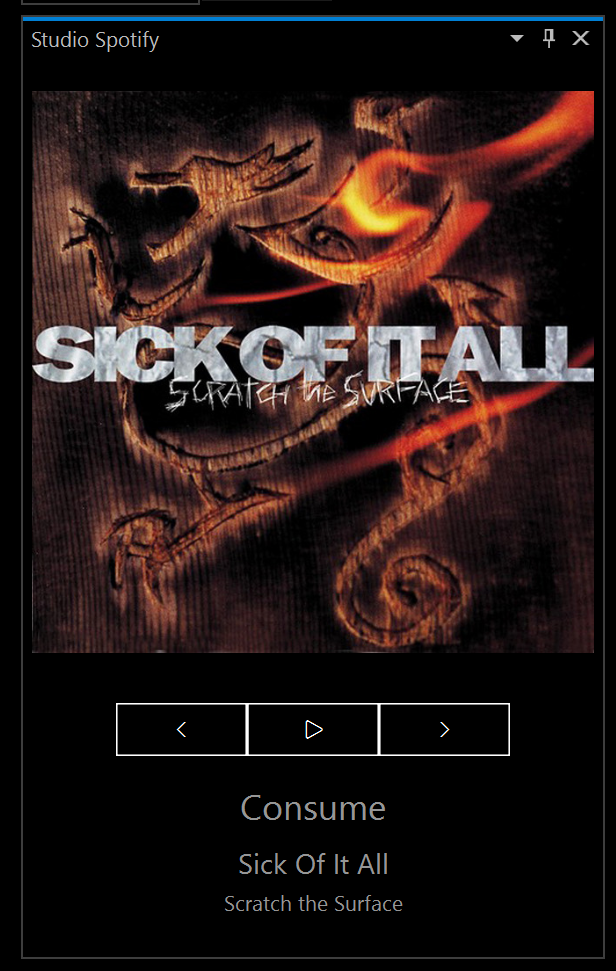
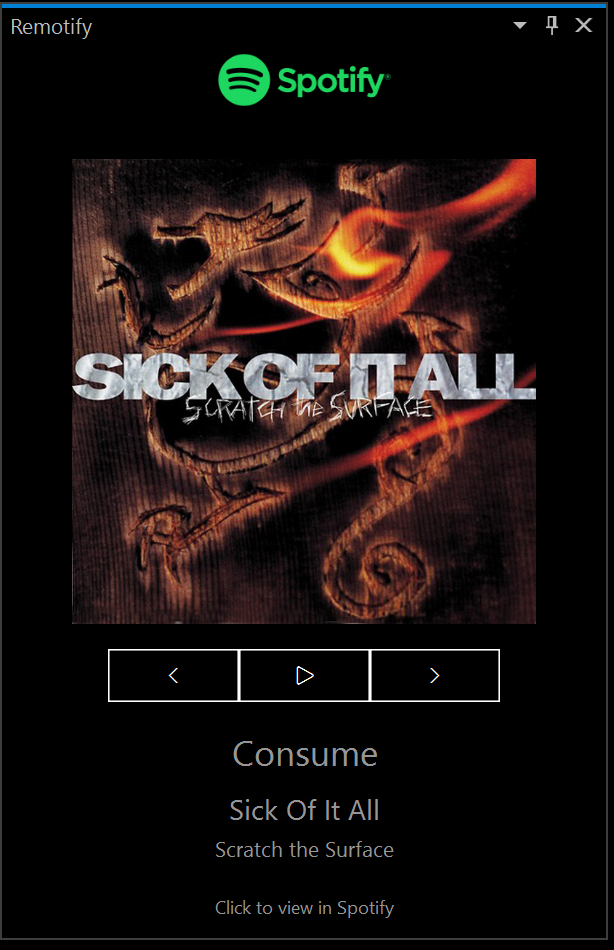
Rebranding for Spotify compliance Renaming of project and such will be done after approval

diff --git a/StudioSpotify/ToolWindows/StudioSpotifyToolWindowControl.xaml b/StudioSpotify/ToolWindows/StudioSpotifyToolWindowControl.xaml
@@ -1,4 +1,4 @@
-<UserControl x:Class="StudioSpotify.StudioSpotifyToolWindowControl"
+<UserControl x:Class="Remotify.StudioSpotifyToolWindowControl"
              xmlns="http://schemas.microsoft.com/winfx/2006/xaml/presentation"
              xmlns:x="http://schemas.microsoft.com/winfx/2006/xaml"
              xmlns:mc="http://schemas.openxmlformats.org/markup-compatibility/2006"
@@ -15,7 +15,7 @@
              Name="MyToolWindow">
     <UserControl.Resources>
         <Style x:Key="Fluent">
-            <Setter Property="TextBlock.FontFamily" Value="pack://application:,,,/StudioSpotify;component/Resources/SegoeFluentIcons.ttf#Segoe Fluent Icons" />
+            <Setter Property="TextBlock.FontFamily" Value="pack://application:,,,/Remotify;component/Resources/SegoeFluentIcons.ttf#Segoe Fluent Icons" />
         </Style>
     </UserControl.Resources>
     <Grid>
@@ -30,17 +30,26 @@
                     VerticalAlignment="Stretch" />
         <Grid x:Name="NowPlaying" Visibility="Visible" HorizontalAlignment="Stretch" VerticalAlignment="Stretch" Margin="5">
             <Grid.RowDefinitions>
+                <RowDefinition Height="60" />
                 <RowDefinition Height="*" />
                 <RowDefinition Height="60"/>
                 <RowDefinition Height="35"/>
                 <RowDefinition Height="25"/>
                 <RowDefinition Height="35"/>
+                <RowDefinition Height="20"/>
             </Grid.RowDefinitions>
             <Grid.ColumnDefinitions>
                 <ColumnDefinition Width="*"/>
             </Grid.ColumnDefinitions>
-            <Image Stretch="Uniform" x:Name="AlbumImage" Grid.Row="0" HorizontalAlignment="Stretch" VerticalAlignment="Stretch" MinHeight="60" MinWidth="60" />
-            <StackPanel Grid.Row="1" Orientation="Horizontal" HorizontalAlignment="Center">
+            <Image Stretch="Uniform" x:Name="SpotifyLogo" Grid.Row="0" HorizontalAlignment="Center" VerticalAlignment="Top" MaxHeight="30" MinWidth="60" />
+            <Image Stretch="Uniform" x:Name="AlbumImage" Grid.Row="1"
+                   MouseDown="AlbumImage_MouseDown"
+                   HorizontalAlignment="Stretch" VerticalAlignment="Stretch" MinHeight="60" MinWidth="60" >
+                <Image.ToolTip>
+                    <ToolTip Content="Click to view in Spotify"></ToolTip>
+                </Image.ToolTip>
+            </Image>
+            <StackPanel Grid.Row="2" Orientation="Horizontal" HorizontalAlignment="Center">
                 <Button Background="Black" BorderThickness="1" BorderBrush="White"  Height="30" Width="40" x:Name="Previous" Click="Previous_Click" >
                     <TextBlock Style="{StaticResource Fluent}" Text="&#xe76b;"></TextBlock>
                 </Button>
@@ -51,9 +60,10 @@
                     <TextBlock Style="{StaticResource Fluent}" Text="&#xe76c;"></TextBlock>
                 </Button>
             </StackPanel>
-            <TextBlock x:Name="Track" FontSize="20" Grid.Row="2" HorizontalAlignment="Center" TextWrapping="NoWrap" TextTrimming="CharacterEllipsis" />
-            <TextBlock x:Name="Artist" FontSize="16" Grid.Row="3"  HorizontalAlignment="Center" TextWrapping="NoWrap" TextTrimming="CharacterEllipsis" />
-            <TextBlock x:Name="Album" FontSize="12" Grid.Row="4"  HorizontalAlignment="Center" TextWrapping="NoWrap"  TextTrimming="CharacterEllipsis"/>
+            <TextBlock x:Name="Track" FontSize="20" Grid.Row="3" HorizontalAlignment="Center" TextWrapping="NoWrap" TextTrimming="CharacterEllipsis" />
+            <TextBlock x:Name="Artist" FontSize="16" Grid.Row="4"  HorizontalAlignment="Center" TextWrapping="NoWrap" TextTrimming="CharacterEllipsis" />
+            <TextBlock x:Name="Album" FontSize="12" Grid.Row="5"  HorizontalAlignment="Center" TextWrapping="NoWrap"  TextTrimming="CharacterEllipsis"/>
+            <TextBlock x:Name="OpenSpotify" FontSize="10" Grid.Row="6" Text="Click to view in Spotify" MouseDown="AlbumImage_MouseDown"  HorizontalAlignment="Center" TextWrapping="NoWrap"  TextTrimming="CharacterEllipsis"/>
         </Grid>
     </Grid>
 </UserControl>

diff --git a/StudioSpotify/ToolWindows/StudioSpotifyToolWindowControl.xaml.cs b/StudioSpotify/ToolWindows/StudioSpotifyToolWindowControl.xaml.cs
@@ -1,7 +1,7 @@
 using Microsoft.VisualStudio.Shell.Interop;
 using Newtonsoft.Json;
+using Remotify.Model;
 using SpotifyAPI.Web;
-using StudioSpotify.Model;
 using System.IO;
 using System.Linq;
 using System.Net.Http;
@@ -12,7 +12,7 @@ using System.Windows.Controls;
 using System.Windows.Media.Imaging;
 using System.Windows.Navigation;
 
-namespace StudioSpotify
+namespace Remotify
 {
     public partial class StudioSpotifyToolWindowControl : UserControl
     {
@@ -26,6 +26,7 @@ namespace StudioSpotify
         private string _placeHolder;
         private Guid _paneGuid = Guid.NewGuid();
         private IVsOutputWindow _outputWindow;
+        private string _currentTrackUrl = string.Empty;
 
         public StudioSpotifyToolWindowControl()
         {
@@ -50,6 +51,8 @@ namespace StudioSpotify
             dir = Path.GetDirectoryName(typeof(StudioSpotifyPackage).Assembly.Location);
             _placeHolder = Path.Combine(dir, "Resources", "logo.png");
             AlbumImage.Source = new BitmapImage(new Uri(_placeHolder));
+            var spotifyLogo = Path.Combine(dir, "Resources", "SpotifyLogo.png");
+            SpotifyLogo.Source = new BitmapImage(new Uri(spotifyLogo));
             base.OnInitialized(e);
         }
 
@@ -86,14 +89,11 @@ namespace StudioSpotify
                 var loginRequest = new LoginRequest(new Uri("http://localhost:5000"), _settings?.ClientId ?? "", LoginRequest.ResponseType.Code)
                 {
                     Scope = new[] { Scopes.PlaylistReadPrivate,
-                 Scopes.PlaylistReadCollaborative,
-                 Scopes.UserReadPrivate,
-                 Scopes.UserReadEmail,
                  Scopes.Streaming,
                  Scopes.UserModifyPlaybackState,
                  Scopes.AppRemoteControl,
-                 Scopes.PlaylistModifyPublic,
                  Scopes.UserReadPlaybackState,
+                 Scopes.UserReadCurrentlyPlaying,
                  Scopes.UserReadPlaybackPosition }
                 };
                 WebBrowser.Navigate(loginRequest.ToUri());
@@ -111,9 +111,10 @@ namespace StudioSpotify
                 var result = await _spotifyClient!.Player!.GetCurrentlyPlaying(new PlayerCurrentlyPlayingRequest());
                 if (result == null)
                 {
-                    Artist.Text = "";
-                    Album.Text = "";
+                    Artist.Text = string.Empty;
+                    Album.Text = string.Empty;
                     Track.Text = "No player active";
+                    _currentTrackUrl = string.Empty;
                     AlbumImage.Source = new BitmapImage(new Uri(_placeHolder));
                 }
                 else if (result?.Item?.Type == ItemType.Track)
@@ -122,6 +123,7 @@ namespace StudioSpotify
                     Artist.Text = track!.Artists.ToList().Count() > 1 ? track.Artists.Select(_ => _.Name).Aggregate((a, b) => $"{a}, {b}") : track.Artists[0].Name;
                     Track.Text = track.Name;
                     Album.Text = track.Album.Name;
+                    _currentTrackUrl = $"https://open.spotify.com/track/{track.Id}";
                     AlbumImage.Source = new BitmapImage(new Uri(track.Album.Images.FirstOrDefault()?.Url ?? ""));
                 }
                 else if (result?.Item?.Type == ItemType.Episode)
@@ -130,6 +132,7 @@ namespace StudioSpotify
                     Artist.Text = episode?.Show?.Name;
                     Track.Text = episode?.Name;
                     Album.Text = episode?.Show?.Description;
+                    _currentTrackUrl = $"https://open.spotify.com/episode/{episode.Id}";
                     AlbumImage.Source = new BitmapImage(new Uri(episode?.Show?.Images?.FirstOrDefault()?.Url ?? ""));
                 }
             }
@@ -137,8 +140,16 @@ namespace StudioSpotify
             {
                 _timer.Stop();
                 Track.Text = "In preview mode and invite only.";
-                Artist.Text = e.Response?.Body?.ToString() ?? "";
                 Album.Text = "The extension is awaiting Spotify approval.";
+                await ThreadHelper.JoinableTaskFactory.SwitchToMainThreadAsync();
+                if (_outputWindow == null)
+                {
+                    _outputWindow = (IVsOutputWindow)Package.GetGlobalService(typeof(SVsOutputWindow));
+                    _outputWindow.CreatePane(ref _paneGuid, "Remotify", 1, 1);
+                }
+                _outputWindow.GetPane(ref _paneGuid, out var outputPane);
+                outputPane.Activate();
+                outputPane.OutputString(e.ToString());
             }
             catch (Exception e)
             {
@@ -151,7 +162,7 @@ namespace StudioSpotify
                 if (_outputWindow == null)
                 {
                     _outputWindow = (IVsOutputWindow)Package.GetGlobalService(typeof(SVsOutputWindow));
-                    _outputWindow.CreatePane(ref _paneGuid, "Studio Spotify", 1, 1);
+                    _outputWindow.CreatePane(ref _paneGuid, "Remotify", 1, 1);
                 }
                 _outputWindow.GetPane(ref _paneGuid, out var outputPane);
                 outputPane.Activate();
@@ -202,7 +213,7 @@ namespace StudioSpotify
                 if (_outputWindow == null)
                 {
                     _outputWindow = (IVsOutputWindow)Package.GetGlobalService(typeof(SVsOutputWindow));
-                    _outputWindow.CreatePane(ref _paneGuid, "Studio Spotify", 1, 1);
+                    _outputWindow.CreatePane(ref _paneGuid, "Remotify", 1, 1);
                 }
                 _outputWindow.GetPane(ref _paneGuid, out var outputPane);
                 outputPane.Activate();
@@ -256,7 +267,7 @@ namespace StudioSpotify
                 if (_outputWindow == null)
                 {
                     _outputWindow = (IVsOutputWindow)Package.GetGlobalService(typeof(SVsOutputWindow));
-                    _outputWindow.CreatePane(ref _paneGuid, "Studio Spotify", 1, 1);
+                    _outputWindow.CreatePane(ref _paneGuid, "Remotify", 1, 1);
                 }
                 _outputWindow.GetPane(ref _paneGuid, out var outputPane);
                 outputPane.Activate();
@@ -352,6 +363,20 @@ namespace StudioSpotify
             if (!success)
             {
                 _ = "";
+            }
+        }
+
+        private void AlbumImage_MouseDown(object sender, System.Windows.Input.MouseButtonEventArgs e)
+        {
+            if (!string.IsNullOrWhiteSpace(_currentTrackUrl))
+            {
+                try
+                {
+                    System.Diagnostics.Process.Start(_currentTrackUrl);
+                }
+                catch (Exception)
+                {
+                }
             }
         }
     }

diff --git a/StudioSpotify/source.extension.cs b/StudioSpotify/source.extension.cs
@@ -1,17 +1,18 @@
 // ------------------------------------------------------------------------------
 // <auto-generated>
 //     This file was generated by VSIX Synchronizer
+//     Available from https://marketplace.visualstudio.com/items?itemName=MadsKristensen.VsixSynchronizer64
 // </auto-generated>
 // ------------------------------------------------------------------------------
-namespace StudioSpotify
+namespace Remotify
 {
     internal sealed partial class Vsix
     {
-        public const string Id = "d83e0b89-3864-4036-98f5-8dc5cdb58c59";
-        public const string Name = "Studio Spotify";
+        public const string Id = "ADF07379-FA2A-4442-92DC-21190FB583CF";
+        public const string Name = "Remotify";
         public const string Description = @"Lets you control Spotify from right inside Visual Studio";
         public const string Language = "en-US";
-        public const string Version = "0.7";
+        public const string Version = "0.9";
         public const string Author = "BDSoftware";
         public const string Tags = "";
     }

diff --git a/StudioSpotify/Command.cs b/StudioSpotify/Command.cs
@@ -1,10 +1,10 @@
 using Microsoft.VisualStudio.Shell.Interop;
 using Newtonsoft.Json;
-using StudioSpotify.Model;
+using Remotify.Model;
 using System.ComponentModel.Design;
 using System.IO;
 
-namespace StudioSpotify
+namespace Remotify
 {
     /// <summary>
     /// Command handler
@@ -54,7 +54,7 @@ namespace StudioSpotify
         /// <summary>
         /// Gets the service provider from the owner package.
         /// </summary>
-        private Microsoft.VisualStudio.Shell.IAsyncServiceProvider ServiceProvider
+        private IAsyncServiceProvider ServiceProvider
         {
             get
             {
@@ -95,7 +95,7 @@ namespace StudioSpotify
             options.HasRevokedAccess = true;
             await options.SaveAsync();
             File.WriteAllText(json, JsonConvert.SerializeObject(settings));
-            var title = "Studio Spotify";
+            var title = "Remotify";
 
             // Show a message box to prove we were here
             VsShellUtilities.ShowMessageBox(

diff --git a/StudioSpotify/VSCommandTable.cs b/StudioSpotify/VSCommandTable.cs
@@ -1,12 +1,13 @@
 // ------------------------------------------------------------------------------
 // <auto-generated>
 //     This file was generated by VSIX Synchronizer
+//     Available from https://marketplace.visualstudio.com/items?itemName=MadsKristensen.VsixSynchronizer64
 // </auto-generated>
 // ------------------------------------------------------------------------------
-namespace StudioSpotify
+namespace Remotify
 {
     using System;
-    
+
     /// <summary>
     /// Helper class that exposes all GUIDs used across VS Package.
     /// </summary>
@@ -21,6 +22,7 @@ namespace StudioSpotify
         public const string guidImagesString = "3be6a221-51ca-46a5-b524-b9707950b5c1";
         public static Guid guidImages = new Guid(guidImagesString);
     }
+
     /// <summary>
     /// Helper class that encapsulates all CommandIDs uses across VS Package.
     /// </summary>

diff --git a/StudioSpotify/ToolWindows/StudioSpotifyToolWindow.cs b/StudioSpotify/ToolWindows/StudioSpotifyToolWindow.cs
@@ -4,11 +4,11 @@ using System.Threading;
 using System.Threading.Tasks;
 using System.Windows;
 
-namespace StudioSpotify
+namespace Remotify
 {
     public class StudioSpotifyToolWindow : BaseToolWindow<StudioSpotifyToolWindow>
     {
-        public override string GetTitle(int toolWindowId) => "Studio Spotify";
+        public override string GetTitle(int toolWindowId) => "Remotify";
 
         public override Type PaneType => typeof(Pane);
 

diff --git a/StudioSpotify/Options/General.cs b/StudioSpotify/Options/General.cs
@@ -1,6 +1,6 @@
 using System.ComponentModel;
 
-namespace StudioSpotify
+namespace Remotify
 {
     internal partial class OptionsProvider
     {
@@ -12,7 +12,7 @@ namespace StudioSpotify
 
     public class General : BaseOptionModel<General>
     {
-        [Category("Studio Spotify")]
+        [Category("Remotify")]
         [DisplayName("HasRevoked")]
         [Description("Bool if user has revoked access")]
         [DefaultValue(false)]

diff --git a/StudioSpotify/StudioSpotifyPackage.cs b/StudioSpotify/StudioSpotifyPackage.cs
@@ -6,7 +6,7 @@ using Microsoft.VisualStudio;
 using System.Runtime.InteropServices;
 using System.Threading;
 
-namespace StudioSpotify
+namespace Remotify
 {
     [PackageRegistration(UseManagedResourcesOnly = true, AllowsBackgroundLoading = true)]
     [InstalledProductRegistration(Vsix.Name, Vsix.Description, Vsix.Version)]

diff --git a/StudioSpotify.Backend/StudioSpotifyTokens.cs b/StudioSpotify.Backend/StudioSpotifyTokens.cs
@@ -9,7 +9,7 @@ using System.Text.Json;
 using System.Text.Json.Serialization;
 using System.Threading.Tasks;
 
-namespace StudioSpotify.Functions
+namespace Remotify.Functions
 {
     public static class StudioSpotifyTokens
     {

diff --git a/StudioSpotify/Commands/StudioSpotifyToolWindowCommand.cs b/StudioSpotify/Commands/StudioSpotifyToolWindowCommand.cs
@@ -1,4 +1,4 @@
-namespace StudioSpotify
+namespace Remotify
 {
     [Command(PackageIds.StudioSpotifyCommand)]
     internal sealed class StudioSpotifyToolWindowCommand : BaseCommand<StudioSpotifyToolWindowCommand>

diff --git a/StudioSpotify/Model/StudioSpotifySettings.cs b/StudioSpotify/Model/StudioSpotifySettings.cs
@@ -1,6 +1,6 @@
 using Newtonsoft.Json;
 
-namespace StudioSpotify.Model
+namespace Remotify.Model
 {
     public class StudioSpotifySettings
     {

diff --git a/StudioSpotify/Model/StudioSpotifyDTO.cs b/StudioSpotify/Model/StudioSpotifyDTO.cs
@@ -1,6 +1,6 @@
 using Newtonsoft.Json;
 
-namespace StudioSpotify.Model
+namespace Remotify.Model
 {
     public class StudioSpotifyDTO
     {
